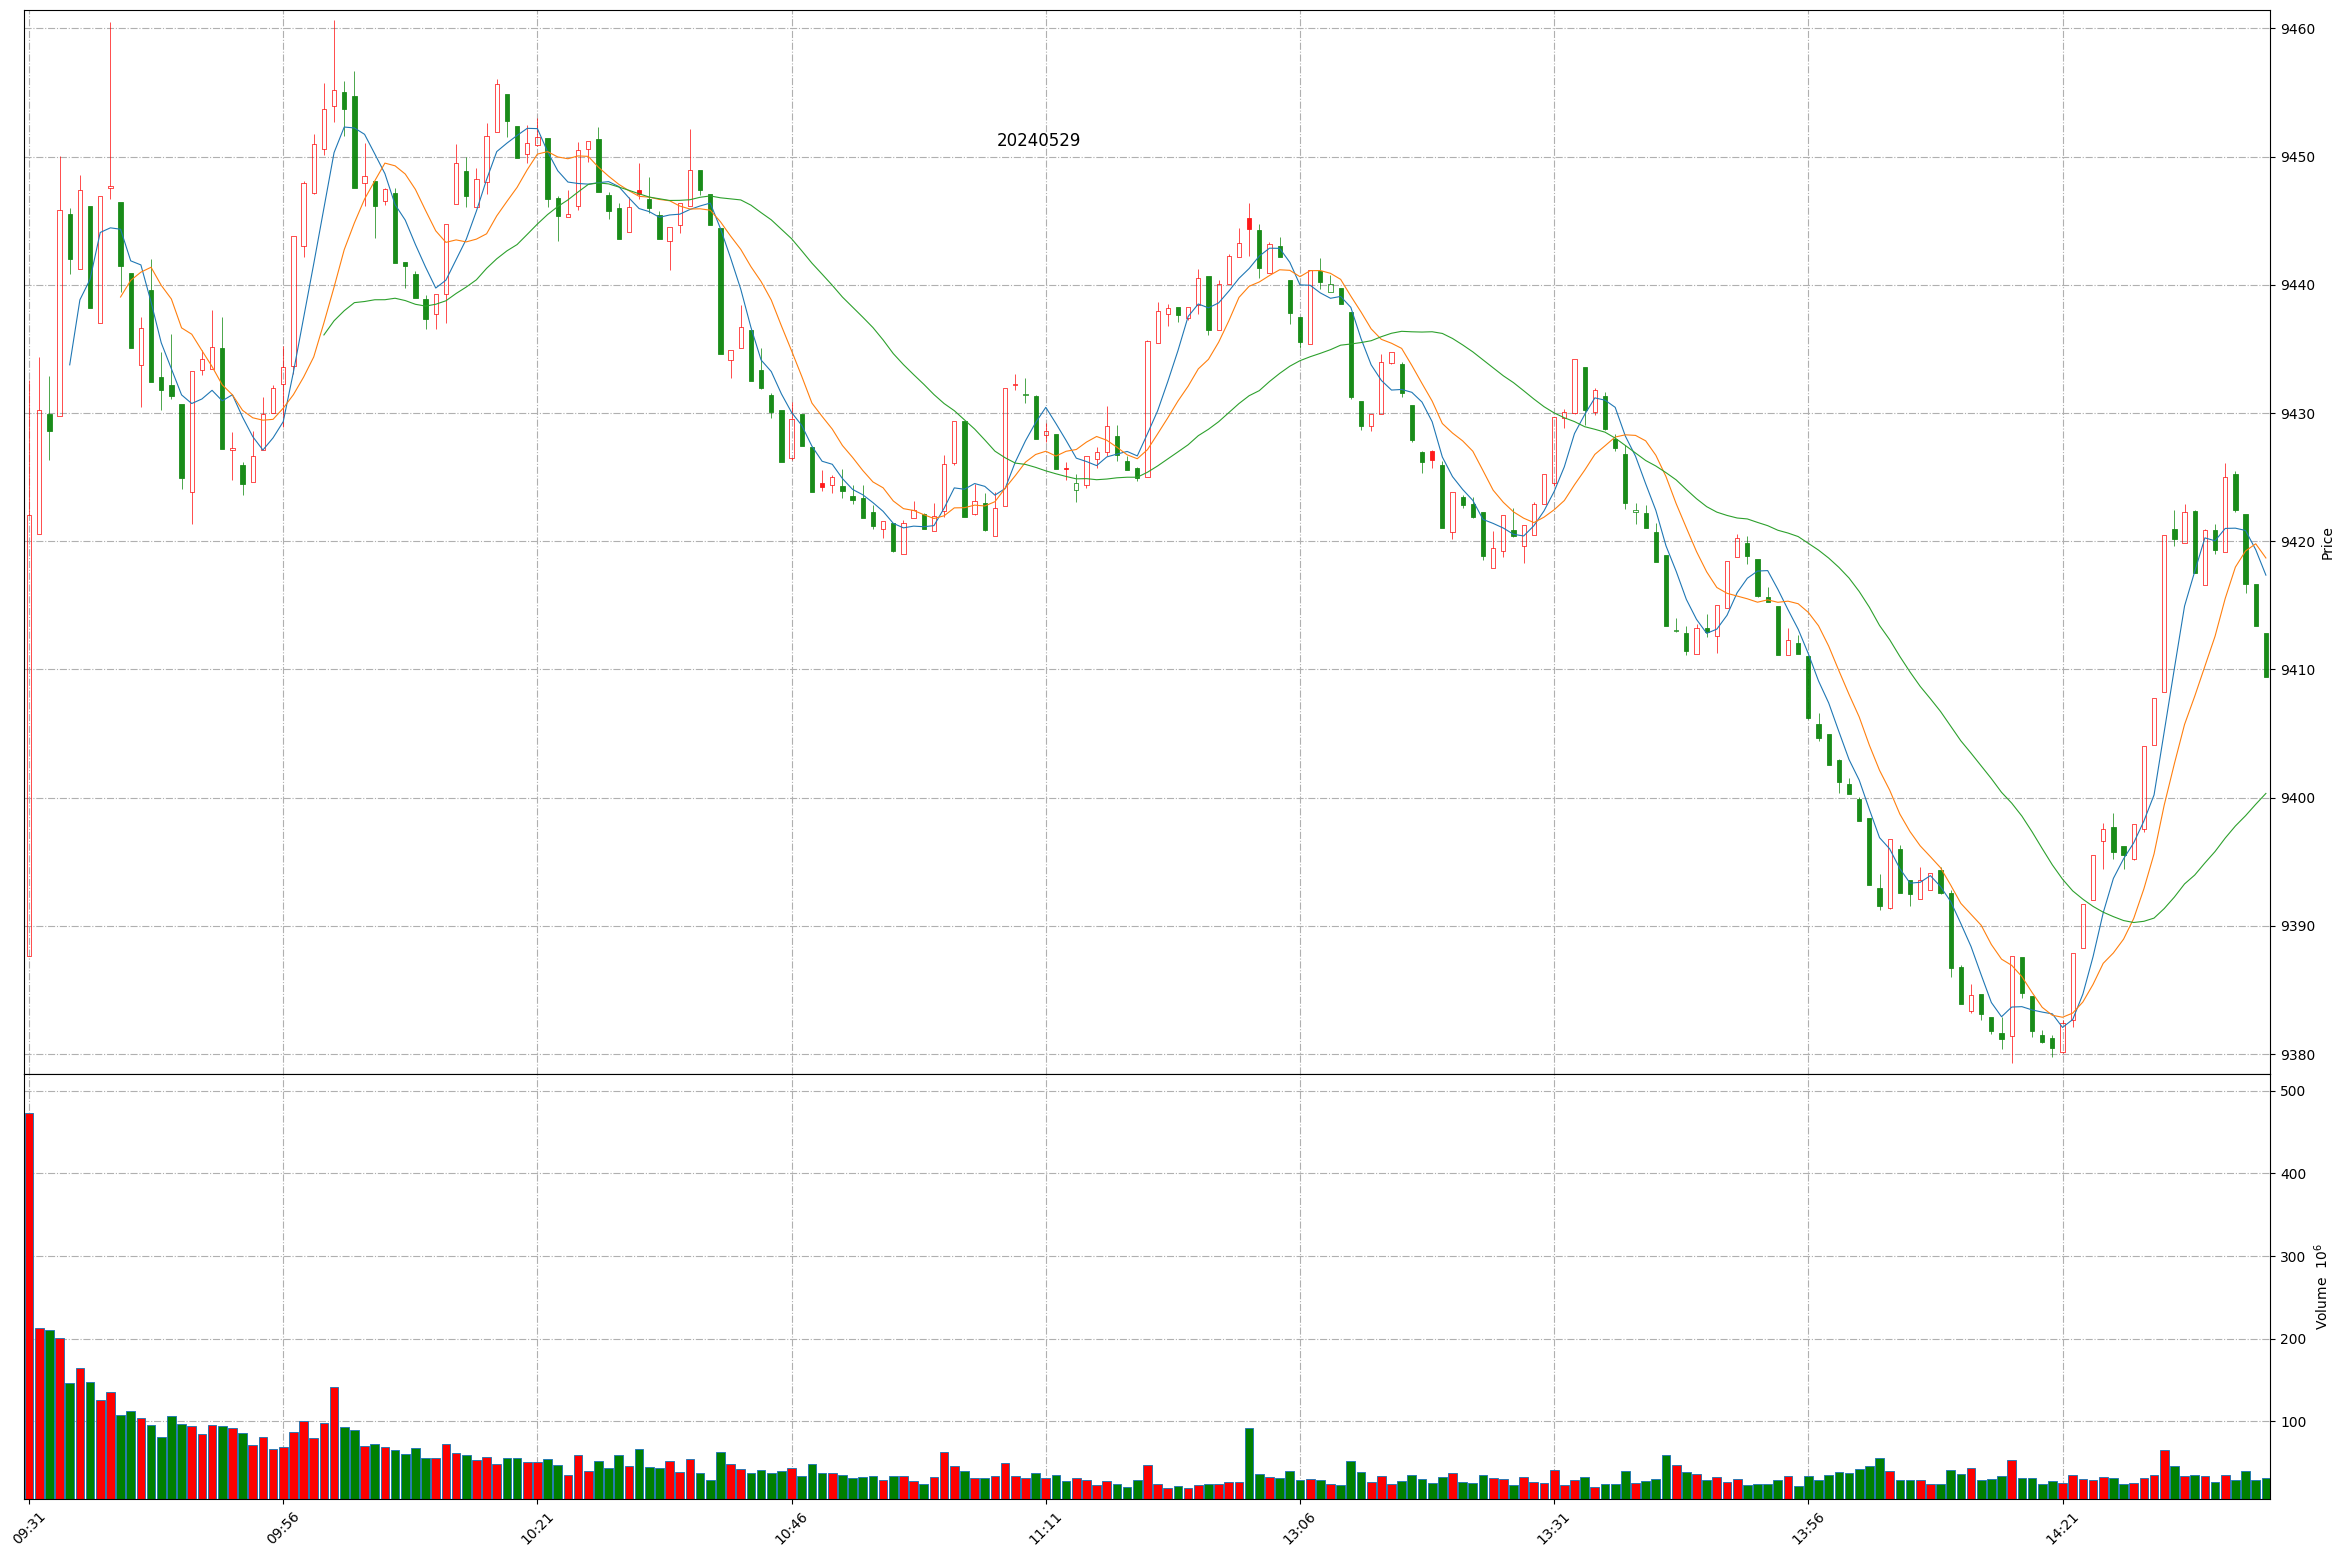
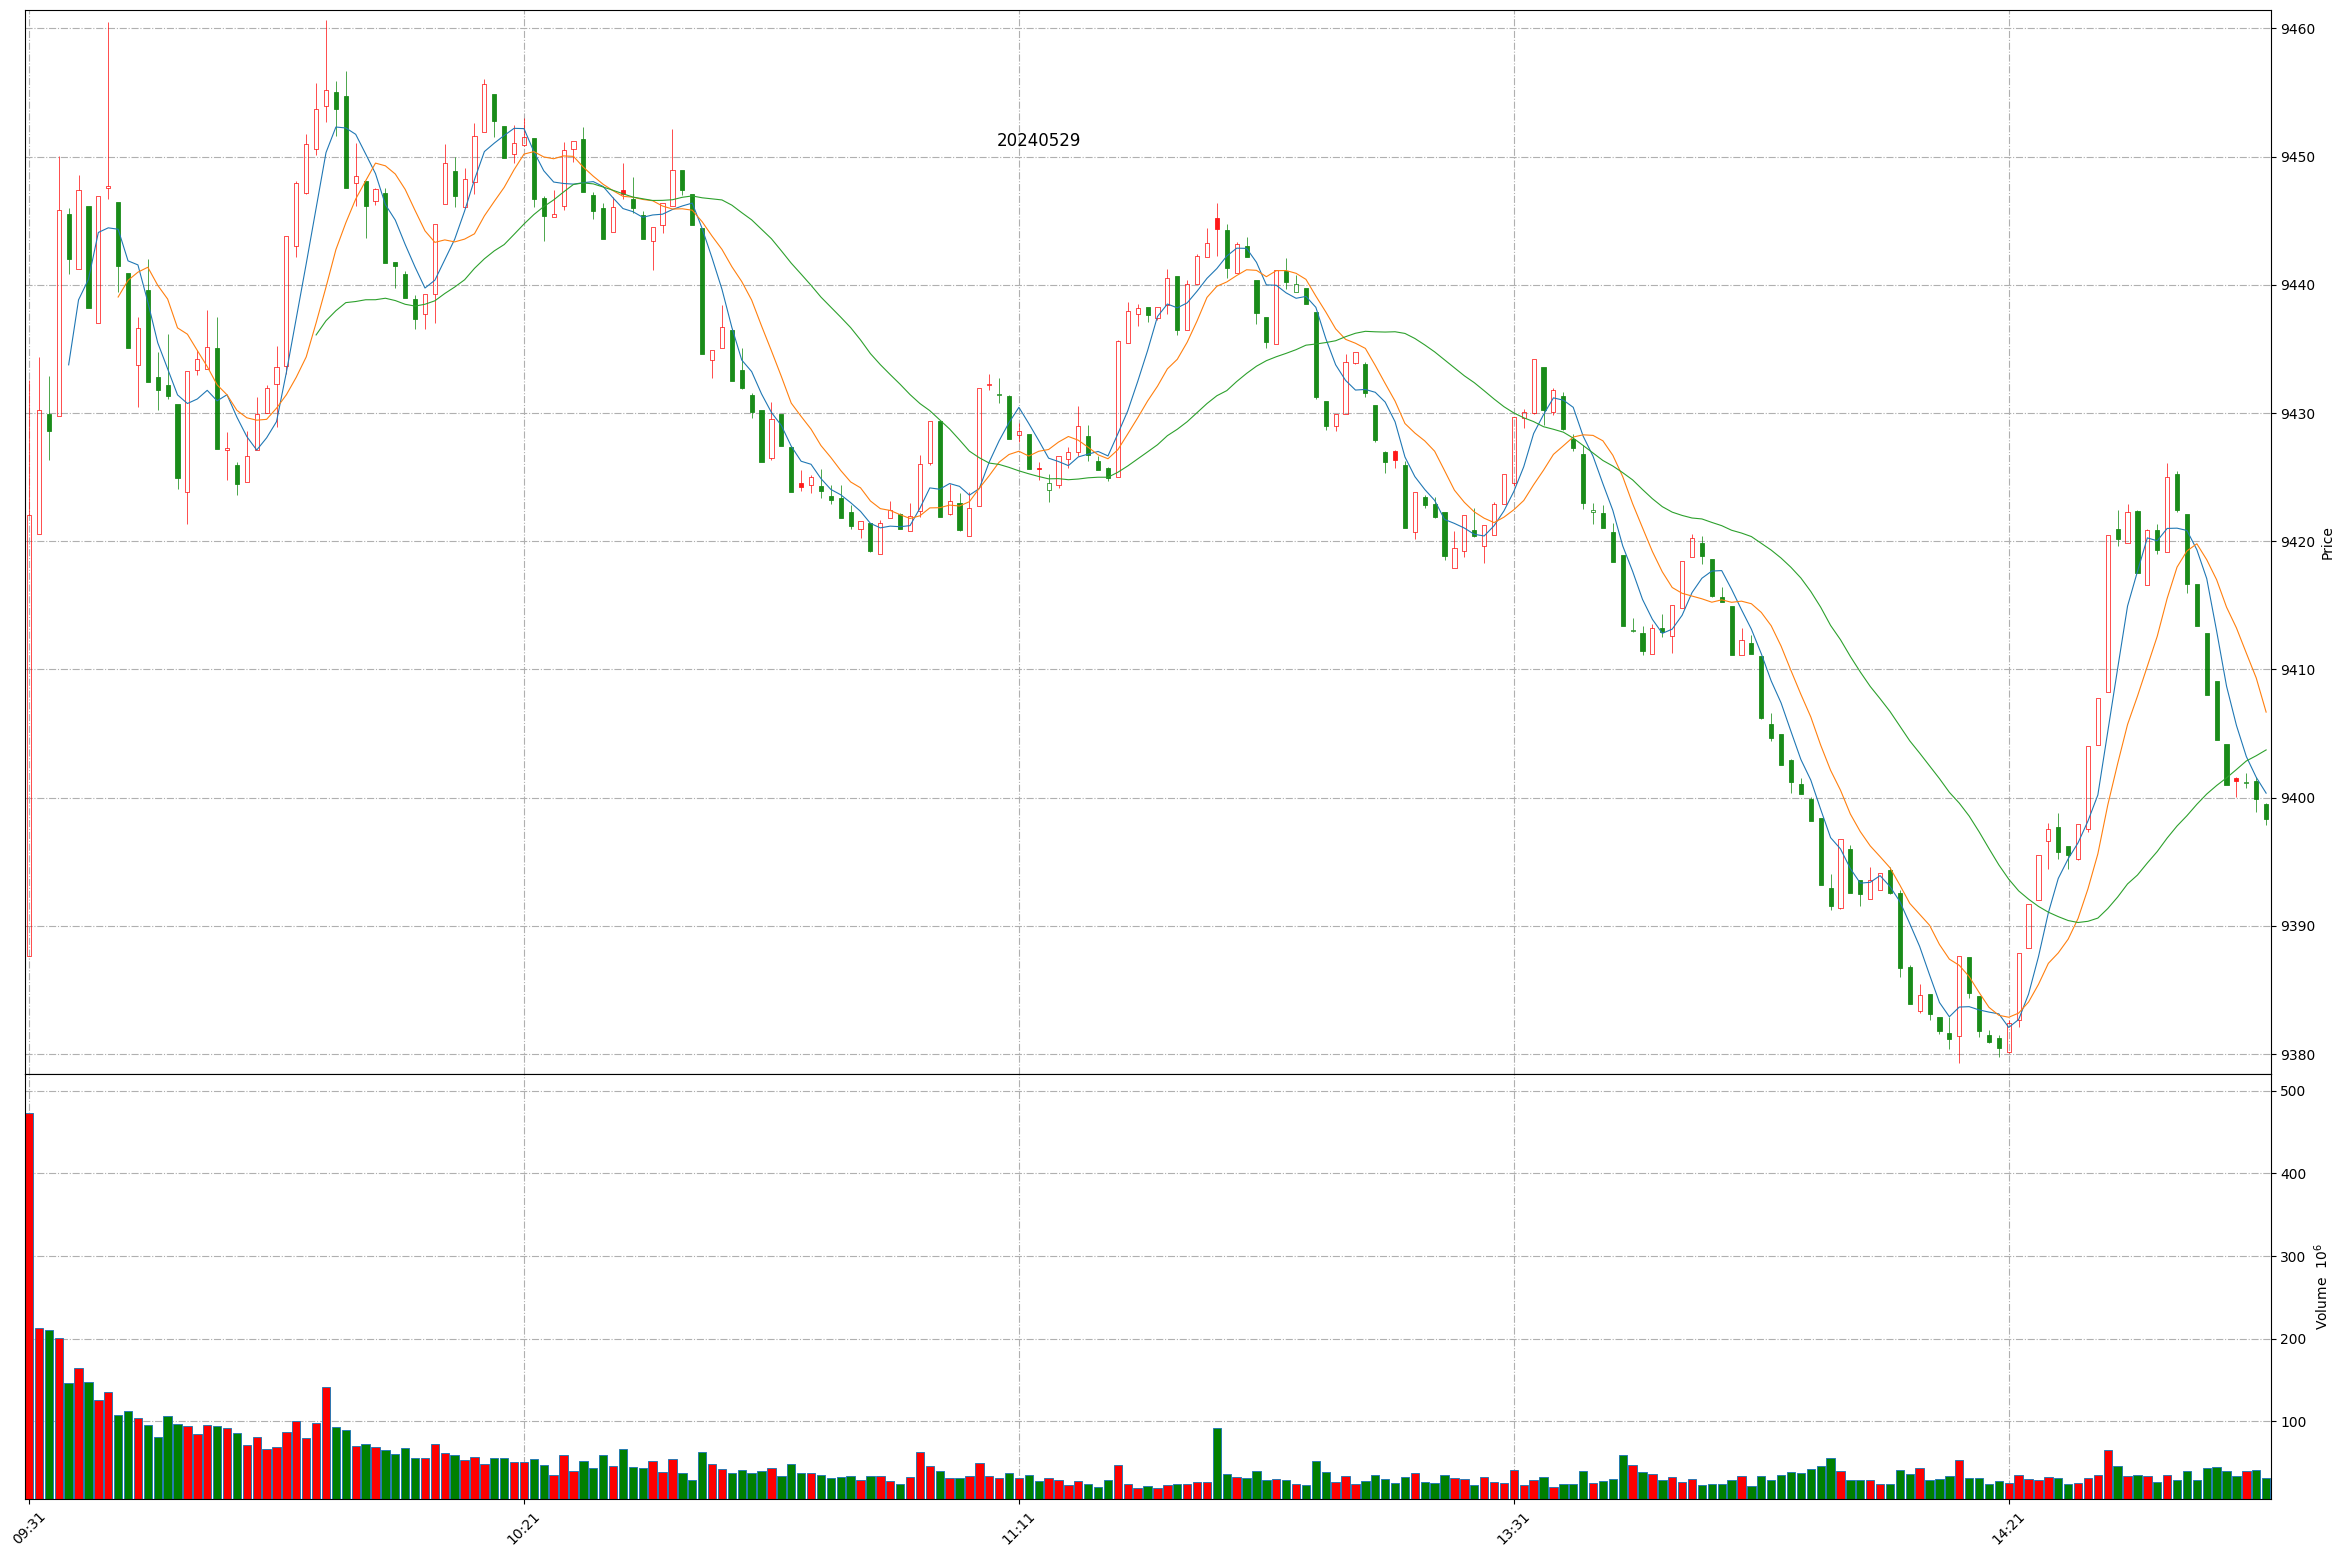
Github action update at 2024-05-29 14:46:56.

diff --git a/README.md b/README.md
@@ -1,11 +1,11 @@
 
 # Daily-A-share-market-quotes 每日 A 股指数（5min 更新）- 20240529
 
-### 上证指数 20240529 14:40
+### 上证指数 20240529 14:46
 ![](./fig/2024/5/20240529-sh000001.png)
 
-### 深证成指 20240529 14:40
+### 深证成指 20240529 14:46
 ![](./fig/2024/5/20240529-sz399001.png)
 
-### 北证50 20240529 14:40
+### 北证50 20240529 14:46
 ![](./fig/2024/5/20240529-bj899050.png)
